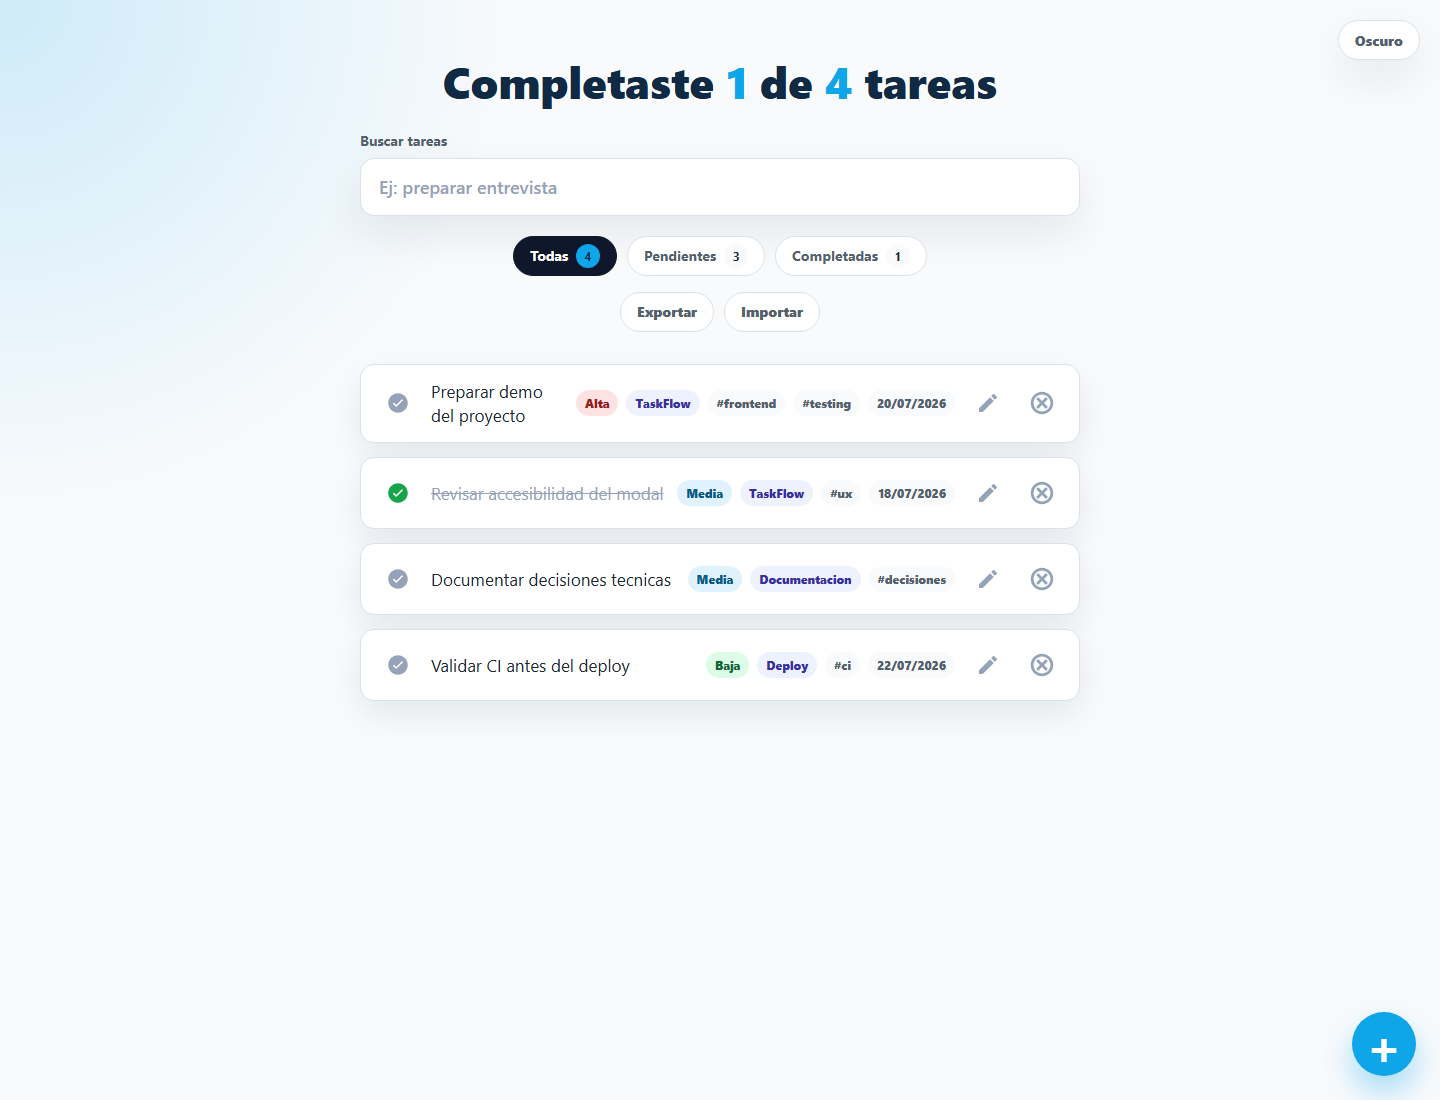
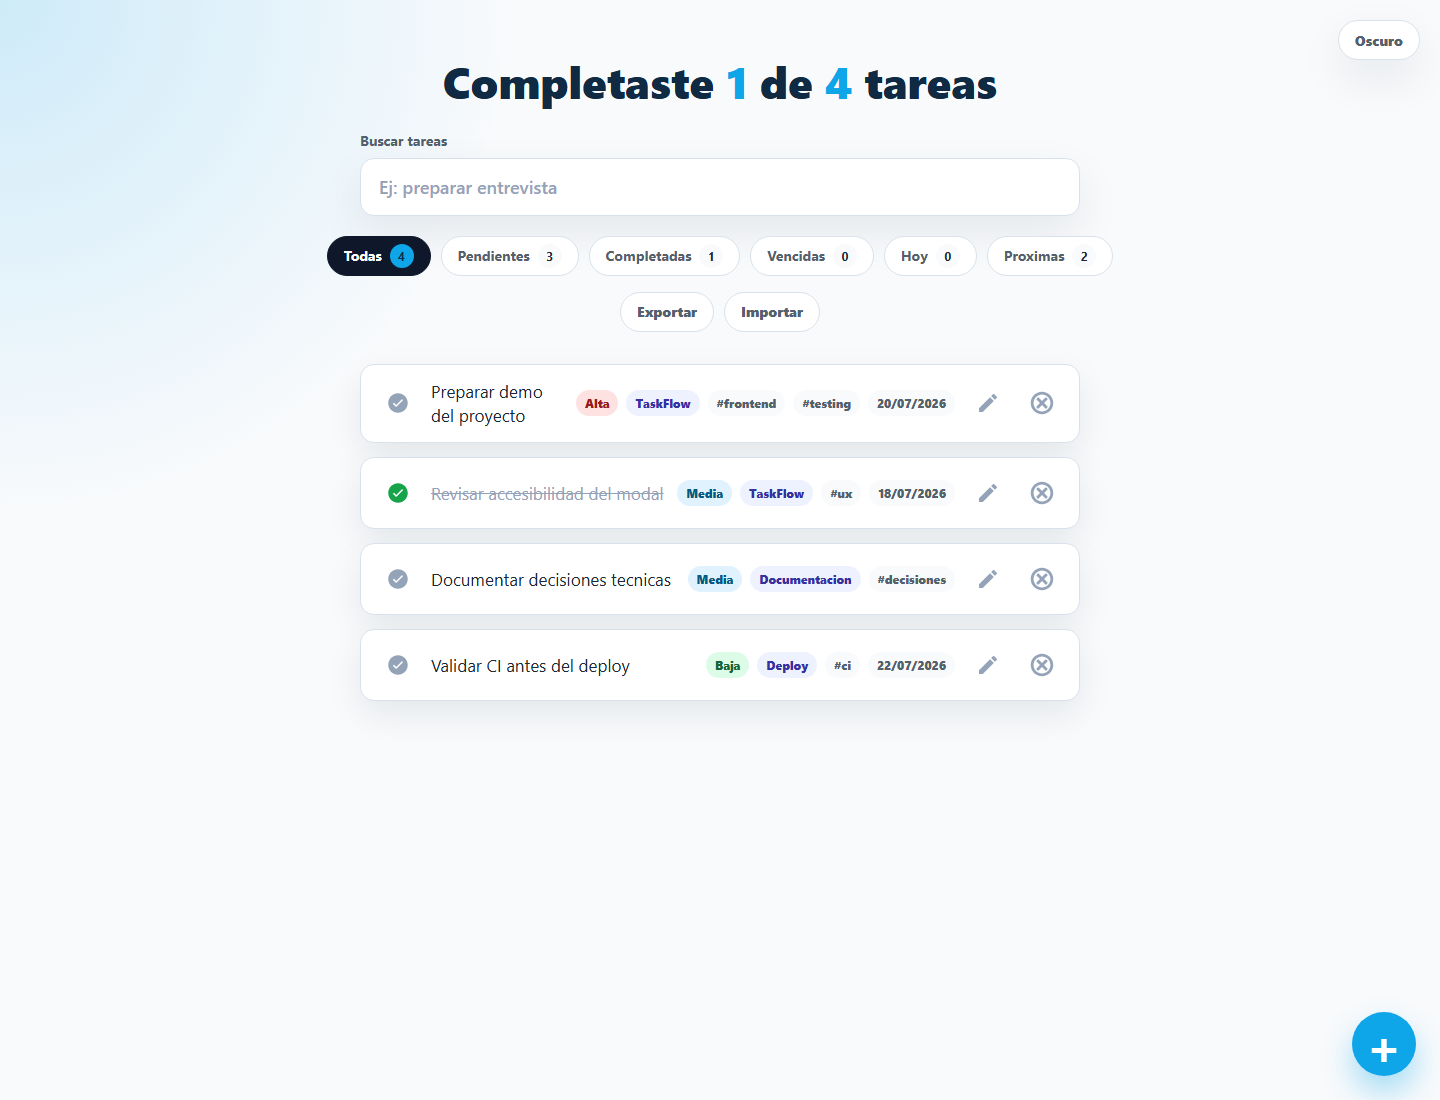
Add due date filters

Changed region(s): [[0.2188, 0.2164, 0.5, 0.2782], [0.5312, 0.2164, 0.6562, 0.2473], [0.6875, 0.2164, 0.75, 0.2473]]

diff --git a/src/App/todoModel.js b/src/App/todoModel.js
@@ -2,6 +2,9 @@ const TODO_FILTERS = {
     all: 'all',
     active: 'active',
     completed: 'completed',
+    overdue: 'overdue',
+    today: 'today',
+    upcoming: 'upcoming',
 };
 
 const TODO_PRIORITIES = {
@@ -20,6 +23,14 @@ function normalizePriority(priority) {
 
 function normalizeDueDate(dueDate) {
     return typeof dueDate === 'string' && dueDate ? dueDate : null;
+}
+
+function getTodayDateValue(date = new Date()) {
+    const year = date.getFullYear();
+    const month = String(date.getMonth() + 1).padStart(2, '0');
+    const day = String(date.getDate()).padStart(2, '0');
+
+    return `${year}-${month}-${day}`;
 }
 
 function normalizeProject(project) {
@@ -98,7 +109,7 @@ function normalizeTodos(todos) {
         }));
 }
 
-function getVisibleTodos(todos, searchValue, filter) {
+function getVisibleTodos(todos, searchValue, filter, todayDate = getTodayDateValue()) {
     const normalizedSearch = searchValue.trim().toLowerCase();
 
     return todos.filter(todo => {
@@ -111,12 +122,48 @@ function getVisibleTodos(todos, searchValue, filter) {
             .join(' ')
             .toLowerCase();
         const matchesSearch = searchableText.includes(normalizedSearch);
+        const dateStatus = getTodoDateStatus(todo, todayDate);
         const matchesFilter =
             filter === TODO_FILTERS.completed ? todo.completed :
             filter === TODO_FILTERS.active ? !todo.completed :
+            filter === TODO_FILTERS.overdue ? dateStatus === TODO_FILTERS.overdue :
+            filter === TODO_FILTERS.today ? dateStatus === TODO_FILTERS.today :
+            filter === TODO_FILTERS.upcoming ? dateStatus === TODO_FILTERS.upcoming :
             true;
 
         return matchesSearch && matchesFilter;
+    });
+}
+
+function getTodoDateStatus(todo, todayDate = getTodayDateValue()) {
+    if (todo.completed || !todo.dueDate) {
+        return null;
+    }
+
+    if (todo.dueDate < todayDate) {
+        return TODO_FILTERS.overdue;
+    }
+
+    if (todo.dueDate === todayDate) {
+        return TODO_FILTERS.today;
+    }
+
+    return TODO_FILTERS.upcoming;
+}
+
+function getTodosDateCounts(todos, todayDate = getTodayDateValue()) {
+    return todos.reduce((counts, todo) => {
+        const dateStatus = getTodoDateStatus(todo, todayDate);
+
+        if (dateStatus) {
+            counts[dateStatus] += 1;
+        }
+
+        return counts;
+    }, {
+        [TODO_FILTERS.overdue]: 0,
+        [TODO_FILTERS.today]: 0,
+        [TODO_FILTERS.upcoming]: 0,
     });
 }
 
@@ -149,6 +196,9 @@ export {
     TODO_PRIORITIES,
     createTodosBackup,
     createTodo,
+    getTodayDateValue,
+    getTodoDateStatus,
+    getTodosDateCounts,
     getVisibleTodos,
     normalizeDueDate,
     normalizePriority,

diff --git a/src/App/App.test.jsx b/src/App/App.test.jsx
@@ -10,6 +10,21 @@ function renderApp() {
   return render(<App />);
 }
 
+function toDateInputValue(date) {
+  const year = date.getFullYear();
+  const month = String(date.getMonth() + 1).padStart(2, '0');
+  const day = String(date.getDate()).padStart(2, '0');
+
+  return `${year}-${month}-${day}`;
+}
+
+function getRelativeDateInputValue(offsetDays) {
+  const date = new Date();
+  date.setDate(date.getDate() + offsetDays);
+
+  return toDateInputValue(date);
+}
+
 describe('App', () => {
   beforeEach(() => {
     localStorage.clear();
@@ -96,6 +111,38 @@ describe('App', () => {
 
     expect(screen.getByText('Esa tarea ya existe.')).toBeInTheDocument();
     expect(within(screen.getByRole('dialog')).getByLabelText('Nueva tarea')).toHaveValue('actualizar portfolio');
+  });
+
+  test('filters todos by due date status', async () => {
+    const user = userEvent.setup();
+    const yesterday = getRelativeDateInputValue(-1);
+    const today = getRelativeDateInputValue(0);
+    const tomorrow = getRelativeDateInputValue(1);
+
+    localStorage.setItem('TODOS_V1', JSON.stringify([
+      { id: 'todo-1', text: 'Resolver deuda vencida', completed: false, dueDate: yesterday },
+      { id: 'todo-2', text: 'Enviar avance de hoy', completed: false, dueDate: today },
+      { id: 'todo-3', text: 'Preparar proxima mejora', completed: false, dueDate: tomorrow },
+      { id: 'todo-4', text: 'Tarea vencida completada', completed: true, dueDate: yesterday },
+    ]));
+    renderApp();
+
+    expect(await screen.findByText('Resolver deuda vencida')).toBeInTheDocument();
+    expect(screen.getByRole('button', { name: 'Vencidas: 1' })).toBeInTheDocument();
+    expect(screen.getByRole('button', { name: 'Hoy: 1' })).toBeInTheDocument();
+    expect(screen.getByRole('button', { name: 'Proximas: 1' })).toBeInTheDocument();
+
+    await user.click(screen.getByRole('button', { name: /Vencidas/ }));
+    expect(screen.getByText('Resolver deuda vencida')).toBeInTheDocument();
+    expect(screen.queryByText('Enviar avance de hoy')).not.toBeInTheDocument();
+
+    await user.click(screen.getByRole('button', { name: /Hoy/ }));
+    expect(screen.getByText('Enviar avance de hoy')).toBeInTheDocument();
+    expect(screen.queryByText('Resolver deuda vencida')).not.toBeInTheDocument();
+
+    await user.click(screen.getByRole('button', { name: /Proximas/ }));
+    expect(screen.getByText('Preparar proxima mejora')).toBeInTheDocument();
+    expect(screen.queryByText('Enviar avance de hoy')).not.toBeInTheDocument();
   });
 
   test('toggles and persists dark mode', async () => {

diff --git a/src/App/useTodos.test.js b/src/App/useTodos.test.js
@@ -3,6 +3,8 @@ import {
   TODO_PRIORITIES,
   createTodosBackup,
   createTodo,
+  getTodoDateStatus,
+  getTodosDateCounts,
   getVisibleTodos,
   normalizeDueDate,
   normalizePriority,
@@ -106,6 +108,35 @@ describe('todo helpers', () => {
     ]);
     expect(getVisibleTodos(todos, 'preparar', TODO_FILTERS.completed)).toEqual([
       todos[0],
+    ]);
+  });
+
+  test('filters todos by due date status', () => {
+    const todos = [
+      { id: '1', text: 'Tarea vencida', completed: false, dueDate: '2026-07-05' },
+      { id: '2', text: 'Tarea de hoy', completed: false, dueDate: '2026-07-06' },
+      { id: '3', text: 'Tarea proxima', completed: false, dueDate: '2026-07-07' },
+      { id: '4', text: 'Tarea completada vencida', completed: true, dueDate: '2026-07-05' },
+      { id: '5', text: 'Tarea sin fecha', completed: false, dueDate: null },
+    ];
+
+    expect(getTodoDateStatus(todos[0], '2026-07-06')).toBe(TODO_FILTERS.overdue);
+    expect(getTodoDateStatus(todos[1], '2026-07-06')).toBe(TODO_FILTERS.today);
+    expect(getTodoDateStatus(todos[2], '2026-07-06')).toBe(TODO_FILTERS.upcoming);
+    expect(getTodoDateStatus(todos[3], '2026-07-06')).toBeNull();
+    expect(getTodosDateCounts(todos, '2026-07-06')).toEqual({
+      overdue: 1,
+      today: 1,
+      upcoming: 1,
+    });
+    expect(getVisibleTodos(todos, '', TODO_FILTERS.overdue, '2026-07-06')).toEqual([
+      todos[0],
+    ]);
+    expect(getVisibleTodos(todos, '', TODO_FILTERS.today, '2026-07-06')).toEqual([
+      todos[1],
+    ]);
+    expect(getVisibleTodos(todos, '', TODO_FILTERS.upcoming, '2026-07-06')).toEqual([
+      todos[2],
     ]);
   });
 

diff --git a/src/components/TodoHeader/TodoFilters/TodoFilters.jsx b/src/components/TodoHeader/TodoFilters/TodoFilters.jsx
@@ -5,6 +5,9 @@ const filterOptions = [
   { value: TODO_FILTERS.all, label: 'Todas', getCount: ({ totalTodos }) => totalTodos },
   { value: TODO_FILTERS.active, label: 'Pendientes', getCount: ({ pendingTodos }) => pendingTodos },
   { value: TODO_FILTERS.completed, label: 'Completadas', getCount: ({ completedTodos }) => completedTodos },
+  { value: TODO_FILTERS.overdue, label: 'Vencidas', getCount: ({ overdueTodos }) => overdueTodos },
+  { value: TODO_FILTERS.today, label: 'Hoy', getCount: ({ todayTodos }) => todayTodos },
+  { value: TODO_FILTERS.upcoming, label: 'Proximas', getCount: ({ upcomingTodos }) => upcomingTodos },
 ];
 
 function TodoFilters({
@@ -14,18 +17,29 @@ function TodoFilters({
   totalTodos,
   completedTodos,
   pendingTodos,
+  overdueTodos,
+  todayTodos,
+  upcomingTodos,
 }) {
   return (
     <div className="TodoFilters" role="group" aria-label="Filtrar tareas">
       {filterOptions.map(option => {
         const isActive = filter === option.value;
-        const count = option.getCount({ totalTodos, completedTodos, pendingTodos });
+        const count = option.getCount({
+          totalTodos,
+          completedTodos,
+          pendingTodos,
+          overdueTodos,
+          todayTodos,
+          upcomingTodos,
+        });
 
         return (
           <button
             key={option.value}
             type="button"
             className={`TodoFilters-button ${isActive ? 'TodoFilters-button--active' : ''}`}
+            aria-label={`${option.label}: ${count}`}
             aria-pressed={isActive}
             disabled={loading}
             onClick={() => setFilter(option.value)}

diff --git a/src/App/App.jsx b/src/App/App.jsx
@@ -31,6 +31,9 @@ function App() {
         totalTodos,
         completedTodos,
         pendingTodos,
+        overdueTodos,
+        todayTodos,
+        upcomingTodos,
         visibleTodos,
         openModal,
         editingTodo,
@@ -80,6 +83,9 @@ function App() {
                     totalTodos={totalTodos}
                     completedTodos={completedTodos}
                     pendingTodos={pendingTodos}
+                    overdueTodos={overdueTodos}
+                    todayTodos={todayTodos}
+                    upcomingTodos={upcomingTodos}
                 />
                 <TodoBackupActions
                     onExportTodos={exportTodos}
@@ -98,7 +104,9 @@ function App() {
                 onEmptyTodos={() => <EmptyTodos />}
                 onEmptySearchResults={() => (
                     <p className="TodoList-emptySearch">
-                        No hay tareas que coincidan con tu busqueda.
+                        {searchValue
+                            ? 'No hay tareas que coincidan con tu busqueda.'
+                            : 'No hay tareas para este filtro.'}
                     </p>
                 )}
                 render={todo => (

diff --git a/src/App/useTodos.js b/src/App/useTodos.js
@@ -4,6 +4,7 @@ import {
     TODO_FILTERS,
     createTodosBackup,
     createTodo,
+    getTodosDateCounts,
     getVisibleTodos,
     normalizeDueDate,
     normalizePriority,
@@ -47,6 +48,7 @@ function useTodos() {
     const completedTodos = normalizedTodos.filter(todo => todo.completed).length;
     const totalTodos = normalizedTodos.length;
     const pendingTodos = totalTodos - completedTodos;
+    const dateCounts = getTodosDateCounts(normalizedTodos);
 
     const visibleTodos = getVisibleTodos(normalizedTodos, searchValue, filter);
 
@@ -185,6 +187,9 @@ function useTodos() {
         totalTodos,
         completedTodos,
         pendingTodos,
+        overdueTodos: dateCounts[TODO_FILTERS.overdue],
+        todayTodos: dateCounts[TODO_FILTERS.today],
+        upcomingTodos: dateCounts[TODO_FILTERS.upcoming],
         visibleTodos,
         openModal,
         editingTodo,

diff --git a/src/components/TodoHeader/TodoFilters/TodoFilters.css b/src/components/TodoHeader/TodoFilters/TodoFilters.css
@@ -4,7 +4,7 @@
   gap: 10px;
   justify-content: center;
   margin: 20px auto 0;
-  max-width: 720px;
+  max-width: 860px;
 }
 
 .TodoFilters-button {

diff --git a/README.md b/README.md
@@ -42,7 +42,7 @@ La aplicacion parte de un flujo de tareas clasico y agrega comportamiento de pro
 - Marcar tareas como completadas o pendientes.
 - Eliminar tareas con confirmacion previa.
 - Buscar tareas por texto, proyecto o etiqueta.
-- Filtrar por todas, pendientes o completadas.
+- Filtrar por todas, pendientes, completadas, vencidas, de hoy o proximas.
 - Persistir datos en IndexedDB, manteniendo compatibilidad con datos antiguos en `localStorage`.
 - Normalizar tareas antiguas guardadas sin `id`.
 - Detectar cambios hechos en otra pestana y permitir sincronizar.
@@ -185,6 +185,7 @@ La suite actual cubre:
 - Normalizacion de tareas antiguas.
 - Creacion de tareas con ids y texto limpio.
 - Filtros por busqueda y estado.
+- Filtros temporales por tareas vencidas, de hoy y proximas.
 - Flujo principal desde la UI: crear, validar, buscar, completar, filtrar y eliminar.
 - Validacion de tareas duplicadas desde el formulario de creacion.
 - Edicion de tareas desde modal y validacion de duplicados en edicion.
@@ -193,7 +194,6 @@ La suite actual cubre:
 
 ## Mejoras futuras
 
-- Vistas por fecha limite y tareas vencidas.
 - Subtareas o checklists dentro de una tarea.
 - Atajos de teclado para usuarios frecuentes.
 - Drag and drop para reordenar tareas.